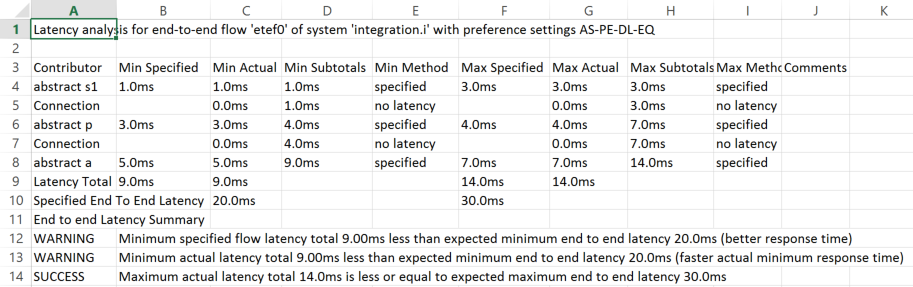
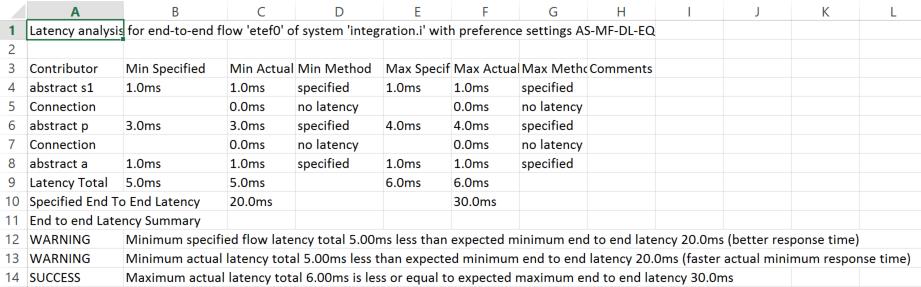
updated preserence setting picture and latency result.

diff --git a/org.osate.analysis.flows/doc/latency.md b/org.osate.analysis.flows/doc/latency.md
@@ -5,7 +5,7 @@ The results are reported in a common result format as well as in a spreadsheet f
 
 ##Usage, Result Reports, and Examples
 
-The latency analysis plugin comes pre-installed with OSATE. In this section we describe how the latency analysis is invoked, how the latency results are presented, and a reference to example models.
+The latency analysis plugin comes pre-installed with OSATE. In this section we describe how the latency analysis is invoked, how the latency results are presented, and a reference to example models. It also describes the preference settings supported by the latency analysis.
 
 ###Invoking the Latency Analysis
 Latency analysis is performed on AADL instance models. You invoke the analysis by selecting the instance model of interest in the AADL Navigator and then selecting the **Check Flow Latency** command in the main menu **Analyses/Timing**, 
@@ -46,19 +46,21 @@ Each contributor entry has a number of columns:
 1. the type and name of the **contributor**
 2. the **minimum specified** latency as indicated by the latency property value associated with the contributor. (The latency property takes a range value and the lower bound is used as minumum).
 3. the **minimum actual** latency value used by the analysis. This value is determined by properties in the architecture design, e.g., the period and execution time of a thread, or the transmission time by a bus. If no actual value can be determined the specified value is used.
-4. the **minimum subtotals** column is optional and can be enabled through preference settings
-5. the **minimum method** used to determine the minimum actual value. The labels are:
--- **no latency**: the value zero as no latency contribution was specified or computed from the design
+4. the **minimum method** used to determine the minimum actual value. The labels are:
+-- **no latency**: the value zero as no latency contribution was specified or computed from the model
 -- **specified**: use of the specified latency property value
 -- **processing time**: processing related latency contribution of a component based on compute execution time and deadline
--- **transmission**: latency contribution for a connection based on binding to a virtual bus or bus using latency property values of those components or based transmission time computation based on data size property values of the data being transmitted (if Transmission_Time and Data_Size have been specified
--- **queuing** latency (based on queue size and execution time property values)
--- **sampling** latency (based on period property values
--- **first sampling** latency (based on period property values
--- **partition output** latency (based on major frame (MF) and partition schedule (PE)  property values)
--- **partition offset** latency (based on major frame and partition schedule property values)
-6. the **maximum specified**, **maximum actual**, **maximum subtotals**, and **maximum method** columns describe the maximum latency contribution
-7. the **comments** column provides additional details on the calculations and may give warnings or error messages to report inconsistencies.
+-- **transmission time**: latency contribution for a connection. Uses on binding to a virtual bus or bus using latency property values of those components or based transmission time computation based on data size property values of the data being transmitted if Transmission_Time and Data_Size have been specified
+-- **queued** latency contribution due to queuing. Uses on queue size, execution time, and period property values
+-- **sampling** latency contribution due to a component sampling periodically. Uses period property values. This value may differ in synchronous and asynchronous system settings
+-- **first sampling** latency contribution. Uses period property values. Not sensitive to a/synchronous system 
+-- **delayed sampling** latency contribution contribution due delayed connection. Uses period property values
+-- **sampling protocol/bus** latency contribution due to periodic bus protocol. Uses period property values
+-- **partition major frame** latency contribution due to periodic execution of a partition. Uses major frame from ARINC653 schedule or period property of virtual processor representing the partition
+-- **partition output** latency contribution due to delay in output to end of partition (PE) or major frame (MF). Uses property values from ARINC653 partition schedule
+-- **partition offset** latency contribution due to partition offset in the partition schedule, either from beginning of major frame or earlier partition in the same schedule. Uses property values from ARINC653 partition schedule
+5. the **maximum specified**, **maximum actual**, **maximum subtotals**, and **maximum method** columns describe the maximum latency contribution
+6. the **comments** column provides additional details on the calculations and may give warnings or error messages to report inconsistencies.
 
 > If connections are bound to virtual buses and buses, then those components are shown in parentheses “()”. Their latency numbers add up to the latency number shown as actual for the connection.
 
@@ -88,14 +90,14 @@ The latency analysis offers several preference settings that affect how latency 
 
 The latency analysis supports the following settings:
 
--   **Treat as synchronous or asynchronous system**. Used to assess the latency of connections between components not inherently synchronous or explicitly determined by the *Reference_Time* property as synchronous (same reference value) or asynchronous (different reference value).  Software components or partitions (virtual processors) bound to the same processor are considered inherently synchronous. This is relevant when sampled processing occurs.
+-   **Treat as synchronous or asynchronous system**. Used to assess the sampling latency between periodic components that are not inherently synchronous (threads or partitions on the same processor) or explicitly specified as synchronous by referring to the same *Reference_Time* property value.  
     -   **Asynchronous system (AS) \[default\]**: The components are not
         time synchronized, i.e., dispatches may have time shift.
     -   **Synchronous system (SS)**: The components are time
         synchronized, i.e., periodic dispatches are aligned
         across systems.
--   **Partition output policy**. Used to reflect different
-    inter-partition communication policies in partitioned systems.
+-   **Partition output policy**. Used to reflect latency contribution by 
+    inter-partition communication due to different inter-communication policies in partitioned systems.
     -   **Major Frame delayed (MF) \[default\]**: assume that
         inter-partitions connections are flushed/realized at the end of
         the major frame. If a task in partition A sends a data to a task
@@ -108,24 +110,15 @@ The latency analysis supports the following settings:
         the later will receive the data in the same major frame if
         partition B is executed after partition A.
 -   **Worst-case processing time**: Users can choose between deadline
-    and worst-case execution time as worst case processing time.
-    -   **Deadline (DL) \[default\]**: Deadline represents the worst-case completion
-        time assuming the tasks are schedulable.
-    -   **Maximum Compute Execution Time (ET)**: Maximum compute execution time. 
-    This assumes the task executes as highest priority task and is not preempted.
+    and worst-case execution time as worst case processing time. For best case we always use execution time.
+    -   **Deadline (DL) \[default\]**: Deadline represents the worst-case completion time assuming the tasks are schedulable.
+    -   **Maximum Compute Execution Time (ET)**: Maximum compute execution time is useful when processing time is considered without resource scheduling. 
 -   **Queuing latency on incoming ports**: Affects how the best case
-    queuing delay is determined.
+    queuing delay is determined. For worst-case we always use full queue.
     -   **Assume empty queue (EQ) \[default\]**: No delay as the queue
         is assumed to be empty.
     -   **Assume full queue (FQ)**: Use minimum compute execution time
         times the queue size to determine the best case queuing time.
--   **Data set processing (DS) yes/no \[default no\]**: allows the user
-    to specify a per element execution time and separately the size of
-    the data set. The Data\_Model::Dimensions property of the port data
-    type is interpreted as the size of the data set.
-
-Users can also indicate whether a subtotals column is included in
-the report.
 
 ##Latency Contribution Calculation and Relevant Properties
 In this section we describe how different latency contributions are determined based on relevant property values in the AADL model.
@@ -139,37 +132,22 @@ The **latency** property allows user to associate a latency value with flow spec
 
 Users can perform end-to-end latency analysis on a system based on these latency budget specifications. They can do so for a system with one layer of subsystems, or subsystems expanded by additional layers of the architecture hierarchy. Different subsystems can be expanded to different levels of the hierarchy. Examples of such models are representing conceptual, functional, and task architectures. The analysis result ensures that latency budgets assigned to various components due not exceed expected end-to-end latencies as specified by the latency property on various end to end flows.
 
-The analysis will calculate the minimum and the maximum end-to-end latency by adding up the specified latencies of all the component flow specifications and of the connections. Absence of a latency property on connections or flow specifications (or the absence of a flow specification on a component) is interpreted as a latency value of zero (marked as **no latency** in the report).
+The analysis will calculate the minimum and the maximum end-to-end latency by adding up the specified latencies of all the component flow specifications and of the connections. Absence of a latency property on connections or flow specifications is interpreted as a latency value of zero (marked as **no latency** in the report). If the end to end flow refers to a component without a flow specification then we look for a latency property value on the component.
 
-**Note**: If the model only includes flow latency values then the analysis does not take into account any sampling, queuing, or partition latency contributions. 
 
-###Latency Contributions by Periodic Sampling Processing
+###Sampling Latency Contribution by Periodic Sampling Processing
 
-In embedded systems it is common to perform periodic processing. Examples are displays refreshing at a specified rate, sensors sampling the physical environment at a given rate, application systems processing their input periodically (periodic threads), networks transferring data periodically (e.g., CANBus).
+In embedded systems it is common to perform periodic sampled processing. Examples are displays refreshing at a specified rate, sensors sampling the physical environment at a given rate, application systems processing their input periodically (periodic threads). This can result in a **sampling** latency contribution, i.e., the amount of time incoming data is available in the incoming port until the component is dispatched.
 
-The *Period* property allows users to specify the time interval at which a component executes. We can annotate a system, abstract, process, thread group, thread, device, component with a period. Note that hardware components can also contribute sampling latency (see later section).
+The *Period* property allows users to specify the time interval at which a component executes. We can annotate a system, abstract, process, thread group, thread, device component with a period. 
 
-An end to end flow latency is determined by the sum of processing, communication, and sampling latencies. For non-sampling components the sampling latency is zero.
+By default, we assume that the worst-case sampling latency is the period and the best-case sampling latency is zero. This is the **asynchronous system** case when the data arrives just after the periodically sampling unit has been dispatched. 
 
-**Note**: In the case of a thread or device with a *Timed* Dispatch\_Protocol the period value is interpreted as the time out value and not interpreted as sampling latency contribution.
+We may also have a **synchronous system** scenario where both the sending and receiving task are dispatched according to the same clock. In this case, the sampling latency can be smaller. The second sampling unit is dispatched at the same time as the first sampling unit, i.e., their dispatch times are aligned. In this case, the sampling latency contribution is the difference between any processing and communication latency since the first sampling unit and the next period of the second sampling unit - effectively rounding up to the next period. The first sampling unit may be followed by non-sampling units before the second sampling unit. In this case the sum of processing and communication latencies is rounded up.
 
-Sampling latency contributions are affected by whether two sampling processing units are dispatched against the same clock (synchronous systems) or against different clocks (asynchronous system).
+> The effect of sampling in a synchronized system context is that the sampling latency contribution evens out any variation in cumulative latency of incoming data, i.e., it acts as jitter buffer. For example, a periodic (I/O) task is sampling sensor input. The input is then processed by non-sampling tasks to minimize latency. To manage the cumulative latency variation (jitter) the output is sent to the actuator by the same I/O task at the beginning of the next frame. 
 
-####Asynchronous Sampling
-
-In the asynchronous case, the worst-case sampling latency contribution of a sampling processing unit is its period. This is the case when the data arrives just after the periodically sampling unit has been dispatched. The best-case sampling latency contribution is zero. This is the case when the data arrives just before the sampling unit is dispatched.
-
-####Synchronous Sampling
-
-In the synchronous case, the sampling latency can be reduced. The second sampling unit is dispatched at the same time as the first sampling unit, i.e., their dispatch times are aligned. In this case, the sampling latency contribution is the difference between any processing and communication latency since the first sampling unit and the next period of the second sampling unit - effectively rounding up to the next period.
-
-**Note**: The effect of synchronized sampling is that the sum of processing/communication and sampling latency is the same for the best and worst case calculation. For example, a periodic (I/O) task is sampling sensor input. The input is then processed by non-sampling tasks to minimize latency. To manage the cumulative latency variation (jitter) the output is sent to the actuator by the same I/O task at the beginning of the next frame. In other words, the I/O task acts as jitter buffer.
-
-**Note**: The first sampling unit may be followed by non-sampling units before the second sampling unit. In this case the sum of processing and communication latencies is rounded up to the next multiple of the second sampling unit period.
-
-**Note**: The cumulative processing and communication latency for the best case and worst case may round up to different multiples of sampling frames (period of the second sampling task). This results in frame-level jitter even if the min/max cumulative processing latency differs only by a few micro seconds, e.g., if one value just below and the other just above a multiple of the sampling frame.
-
-**Note**: If the first sampling task is followed by an asynchronous sampling task then the processing latency and the period as sampling latency are added. This task then becomes the first sampling task for potential synchronous sampling.
+> The cumulative processing and communication latency for the best case and worst case may round up to different multiples of sampling frames (period of the second sampling task). This results in frame-level jitter even if the min/max cumulative processing latency differs only by a few micro seconds, e.g., if one value just below and the other just above a multiple of the sampling frame.
 
 ####When do we have Synchronous Sampling
 
